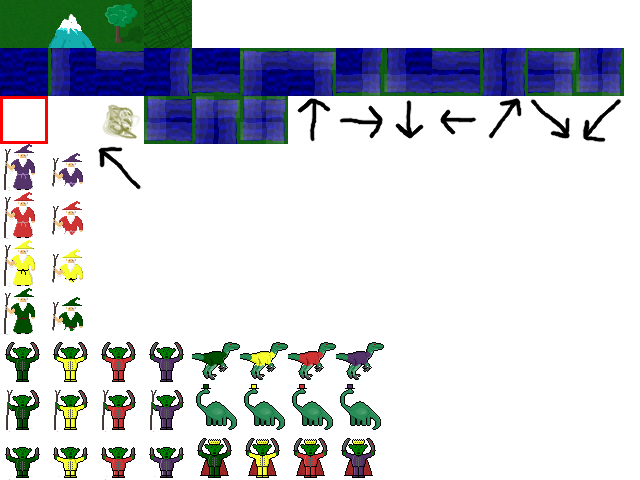
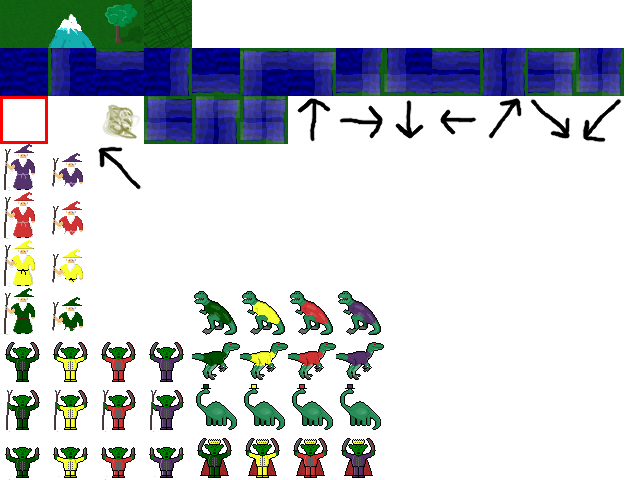
Added a T-Rex

Changed region(s): [[0.2812, 0.5938, 0.5938, 0.7188]]

diff --git a/monsters.py b/monsters.py
@@ -68,8 +68,9 @@ class Wizard(actor.Actor):
                                                                                                  SummonGoblinWarriorAction,
                                                                                                  SummonGoblinShamanAction,
                                                                                                  SummonGoblinLordAction]),
-                                                              action.SummonActionCreator(self,[SummonBrontosaurusAction,
-                                                                                               SummonVelociraptorAction]),
+                                                              action.SummonActionCreator(self,[SummonVelociraptorAction,
+                                                                                               SummonTRexAction,
+                                                                                               SummonBrontosaurusAction]),
                                                               action.TeleportActionCreator(self,[action.TeleportAction,
                                                                                                  action.RefinedTeleportAction])))
                                                             
@@ -84,7 +85,8 @@ class Wizard(actor.Actor):
                                                                           SummonGoblinWarriorAction,
                                                                           SummonGoblinShamanAction,
                                                                           SummonGoblinLordAction,
-                                                                          SummonVelociraptorAction])
+                                                                          SummonVelociraptorAction,
+                                                                          SummonTRexAction])
             self.teleport_action_creator = action.TeleportActionCreator(self,[action.TeleportAction,
                                                                       action.RefinedTeleportAction])
             self.move_action_creator   = action.MoveActionCreator(self,[action.MoveAction])
@@ -571,6 +573,14 @@ class Velociraptor(Dinosaur):
                                 mana    = 0)                
     name = 'Velociraptor'
 
+class TRex(Dinosaur):
+    initial_stats = actor.Stats(attack  = 9,
+                                defence = 8,
+                                move    = 4,
+                                health  = 21,
+                                mana    = 0)                
+    name = 'T-Rex'
+
 
 class SummonDinosaurAction(action.SummonMonsterAction):
     generic_name = 'Summon Dinosaur'
@@ -589,4 +599,12 @@ class SummonVelociraptorAction(SummonDinosaurAction):
     name         = 'Summon Velociraptor'
     Monster      = Velociraptor
     monster_type = 'velociraptor'
+    stats        = [(stat_name,getattr(Monster.initial_stats,stat_name)) for stat_name in 'attack','defence','move','health','mana']
+
+class SummonTRexAction(SummonDinosaurAction):
+    cost         = 12
+    description  = 'Thud. Thud. Thud. The king of the dinosaurs is coming'
+    name         = 'Summon T-Rex'
+    Monster      = TRex
+    monster_type = 'trex'
     stats        = [(stat_name,getattr(Monster.initial_stats,stat_name)) for stat_name in 'attack','defence','move','health','mana']

diff --git a/action.py b/action.py
@@ -23,7 +23,7 @@ class Action(object):
 #This class exists only so we can have a consistent interface
 class BasicActionCreator(object):
     def __init__(self,actor,actions):
-        self.actions      = actions
+        self.actions      = sorted(actions,lambda x,y:cmp(x.cost,y.cost))
         self.action_index = 0
         self.action       = self.actions[self.action_index]
         self.actor        = actor
@@ -867,6 +867,7 @@ counter_table  = { -10 : 0,
                      4 : 0.5,
                      5 : 0.6,
                      6 : 0.7,
+                     7 : 0.725,
                      8 : 0.75,
                      9 : 0.8,
                     10 : 0.9 }
